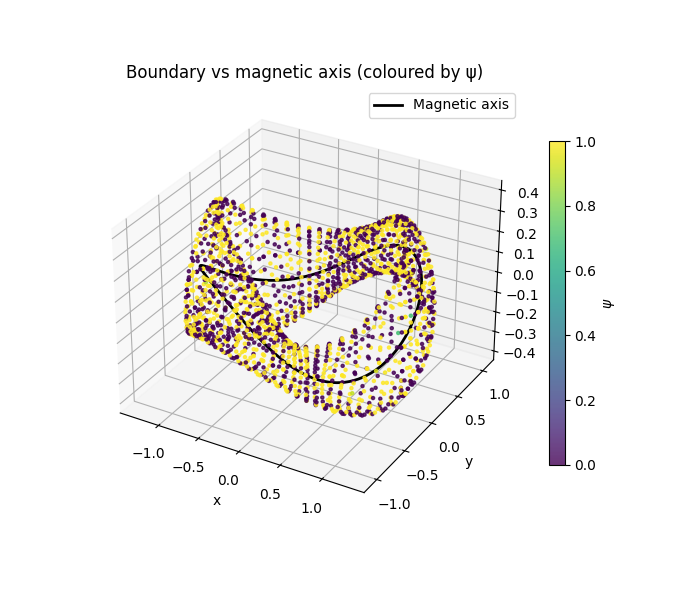
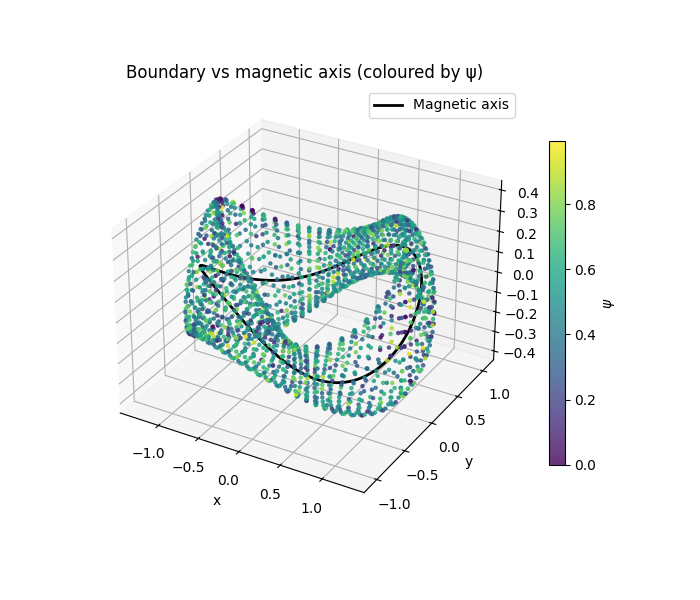
better plots

diff --git a/MFS/solve_flux_psi_fci.py b/MFS/solve_flux_psi_fci.py
@@ -150,10 +150,10 @@ def plot_psi_maps_RZ_panels(psi_RZphi, Rs, phis, Zs, jj_list,
 
     return fig
 
-def plot_3d_axis_boundary(P, axis_pts, psi, Xq, inside_mask):
-    nbrs = NearestNeighbors(n_neighbors=1, algorithm="kd_tree").fit(Xq)
-    _, idx = nbrs.kneighbors(P)
-    psi_on_P = psi[idx[:, 0]]
+def plot_3d_axis_boundary_interp(P, axis_pts, psi3, xs, ys, zs):
+    interp_psi = RegularGridInterpolator((xs, ys, zs), psi3,
+                                         bounds_error=False, fill_value=np.nan)
+    psi_on_P = interp_psi(P)
 
     fig = plt.figure(figsize=(7, 6))
     ax = fig.add_subplot(111, projection="3d")
@@ -167,14 +167,10 @@ def plot_3d_axis_boundary(P, axis_pts, psi, Xq, inside_mask):
         "k-", linewidth=2.0, label="Magnetic axis"
     )
 
-    ax.set_xlabel("x")
-    ax.set_ylabel("y")
-    ax.set_zlabel("z")
+    ax.set_xlabel("x"); ax.set_ylabel("y"); ax.set_zlabel("z")
     ax.set_title("Boundary vs magnetic axis (coloured by ψ)")
     fig.colorbar(sc, ax=ax, shrink=0.7, label=r"$\psi$")
-
     ax.legend(loc="best")
-
     return fig
 
 ###############################################################################
@@ -318,7 +314,7 @@ def collapse_to_axis(grad_phi: Callable[[jnp.ndarray], jnp.ndarray], R0: float, 
     @jit
     def integrate_one_turn(RZ0: jnp.ndarray) -> jnp.ndarray:
         sol = dfx.diffeqsolve(term, solver, t0=t0, t1=t1, dt0=dt0, y0=RZ0,
-                              saveat=saveat_t1, max_steps=nsteps * 16,
+                              saveat=saveat_t1, max_steps=200_000,
                               stepsize_controller=stepsize_controller)
         return sol.ys[-1]
 
@@ -910,7 +906,7 @@ def solve_fci(npz_file: str, grid_N: int = 64, eps: float = 1e-3, band_h: float 
 
             jj_list = np.linspace(0, len(phis_cyl) - 1, 4, dtype=int)
             figRZ = plot_psi_maps_RZ_panels(
-                psi_RZphi, Rs_cyl, phis_cyl, Zs_cyl, jj_list,
+                np.sqrt(psi_RZphi), Rs_cyl, phis_cyl, Zs_cyl, jj_list,
                 Rb=Rb, Zb=Zb, phi_b=phi_b, title="ψ(R,Z)"
             )
             figRZ.suptitle("ψ(R,Z) at selected toroidal angles")
@@ -921,11 +917,28 @@ def solve_fci(npz_file: str, grid_N: int = 64, eps: float = 1e-3, band_h: float 
             pinfo(f"[WARN] Failed to build RZφ panels: {e}")
 
         try:
-            fig3d = plot_3d_axis_boundary(P, axis_pts, psi, Xq, inside_mask)
+            psi3 = psi.reshape(nx, ny, nz)
+            fig3d = plot_3d_axis_boundary_interp(P, axis_pts, psi3, xs, ys, zs)
             if save_figures:
                 fig3d.savefig("fci_psi_3d_axis_boundary.png")
         except Exception as e:
             pinfo(f"[WARN] Failed to plot 3D axis/boundary: {e}")
+
+        R = np.sqrt(Xq[:,0]**2 + Xq[:,1]**2)
+        R_axis_line = np.sqrt(axis_pts[:,0]**2 + axis_pts[:,1]**2).mean()
+        dist_to_axis = np.abs(R - R_axis_line)    # crude measure
+
+        try:
+            mask_core = inside_mask & (~fixed)
+            plt.figure()
+            plt.scatter(dist_to_axis[mask_core], psi[mask_core], s=2, alpha=0.3)
+            plt.xlabel("distance to axis (rough)")
+            plt.ylabel("ψ")
+            plt.title("ψ vs distance to axis (inside free region)")
+            if save_figures:
+                plt.savefig("fci_psi_vs_distance_to_axis.png")
+        except Exception as e:
+            pinfo(f"[WARN] Failed to plot ψ vs distance to axis: {e}")
 
         plt.show()
 
@@ -971,7 +984,7 @@ if __name__ == "__main__":
     parser = argparse.ArgumentParser(description="Solve field–aligned flux function ψ via FCI diffusion.")
     parser.add_argument("npz", nargs="?", default=resolve_npz_file_location(default_solution),
                         help="MFS solution checkpoint (*.npz) containing center, scale, Yn, alpha, a, a_hat, P, N")
-    parser.add_argument("--N", type=int, default=64, help="Grid resolution per axis")
+    parser.add_argument("--N", type=int, default=56, help="Grid resolution per axis")
     parser.add_argument("--eps", type=float, default=2e-2, help="Perpendicular diffusion weight")
     parser.add_argument("--delta", type=float, default=5e-2, help="Isotropic diffusion floor")
     parser.add_argument("--band-h", type=float, default=1.0, help="Boundary band thickness multiplier")
